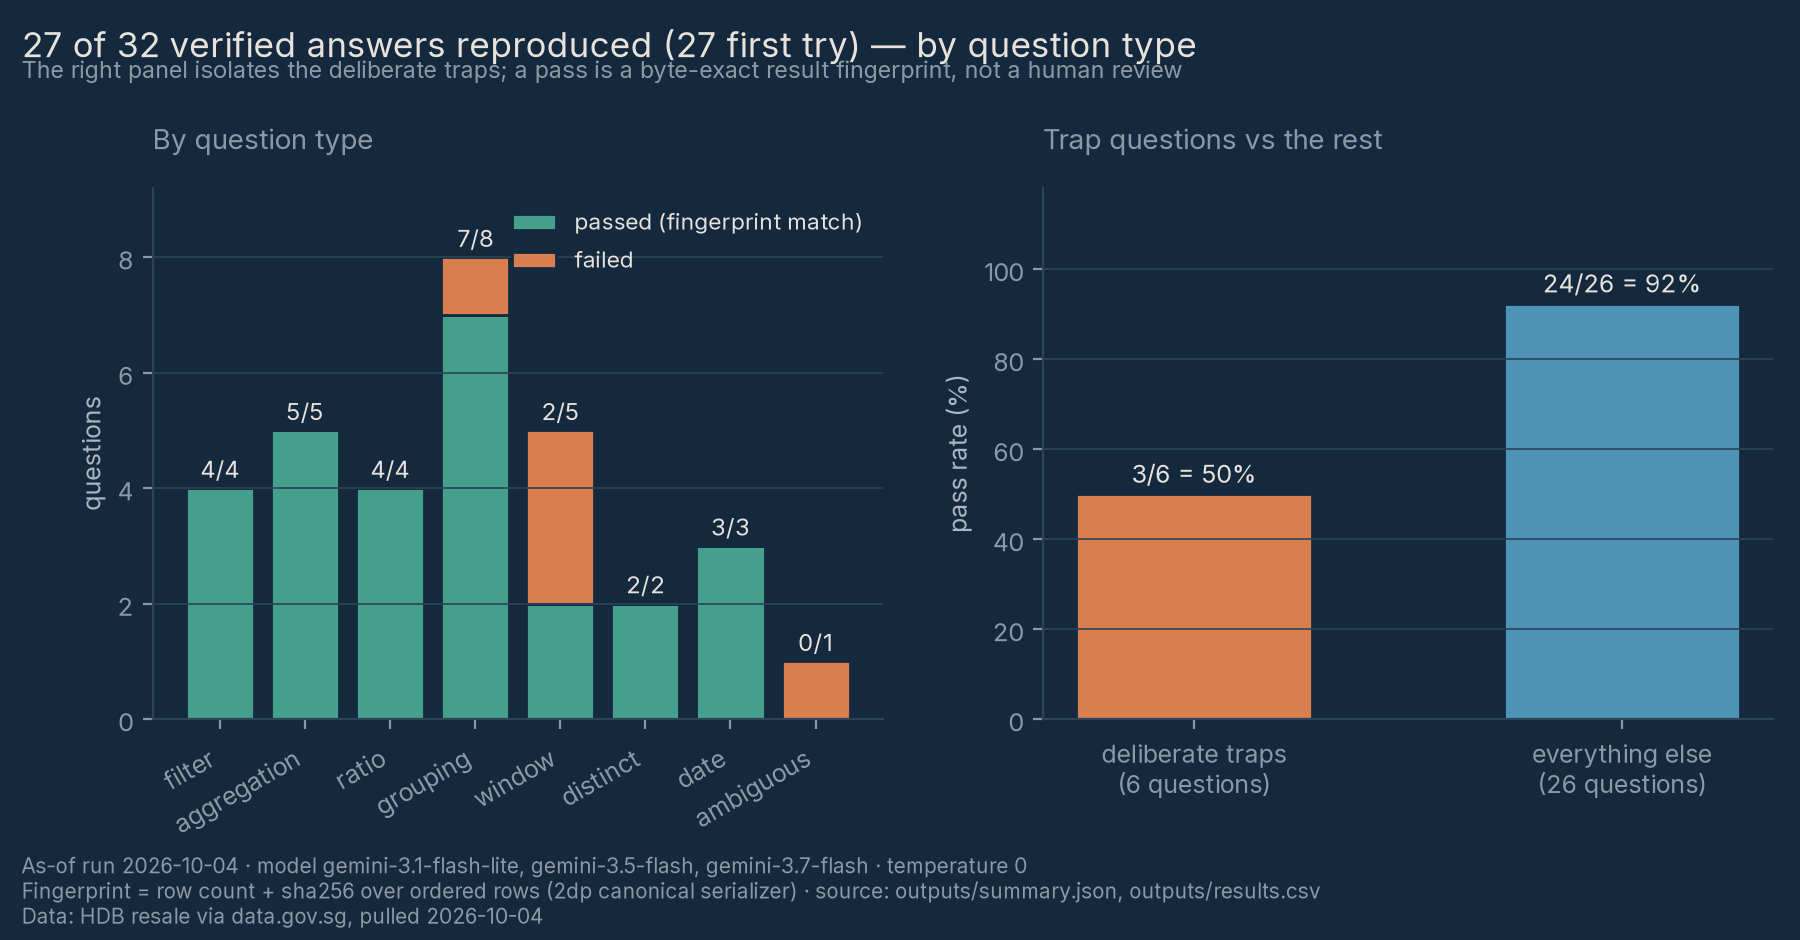
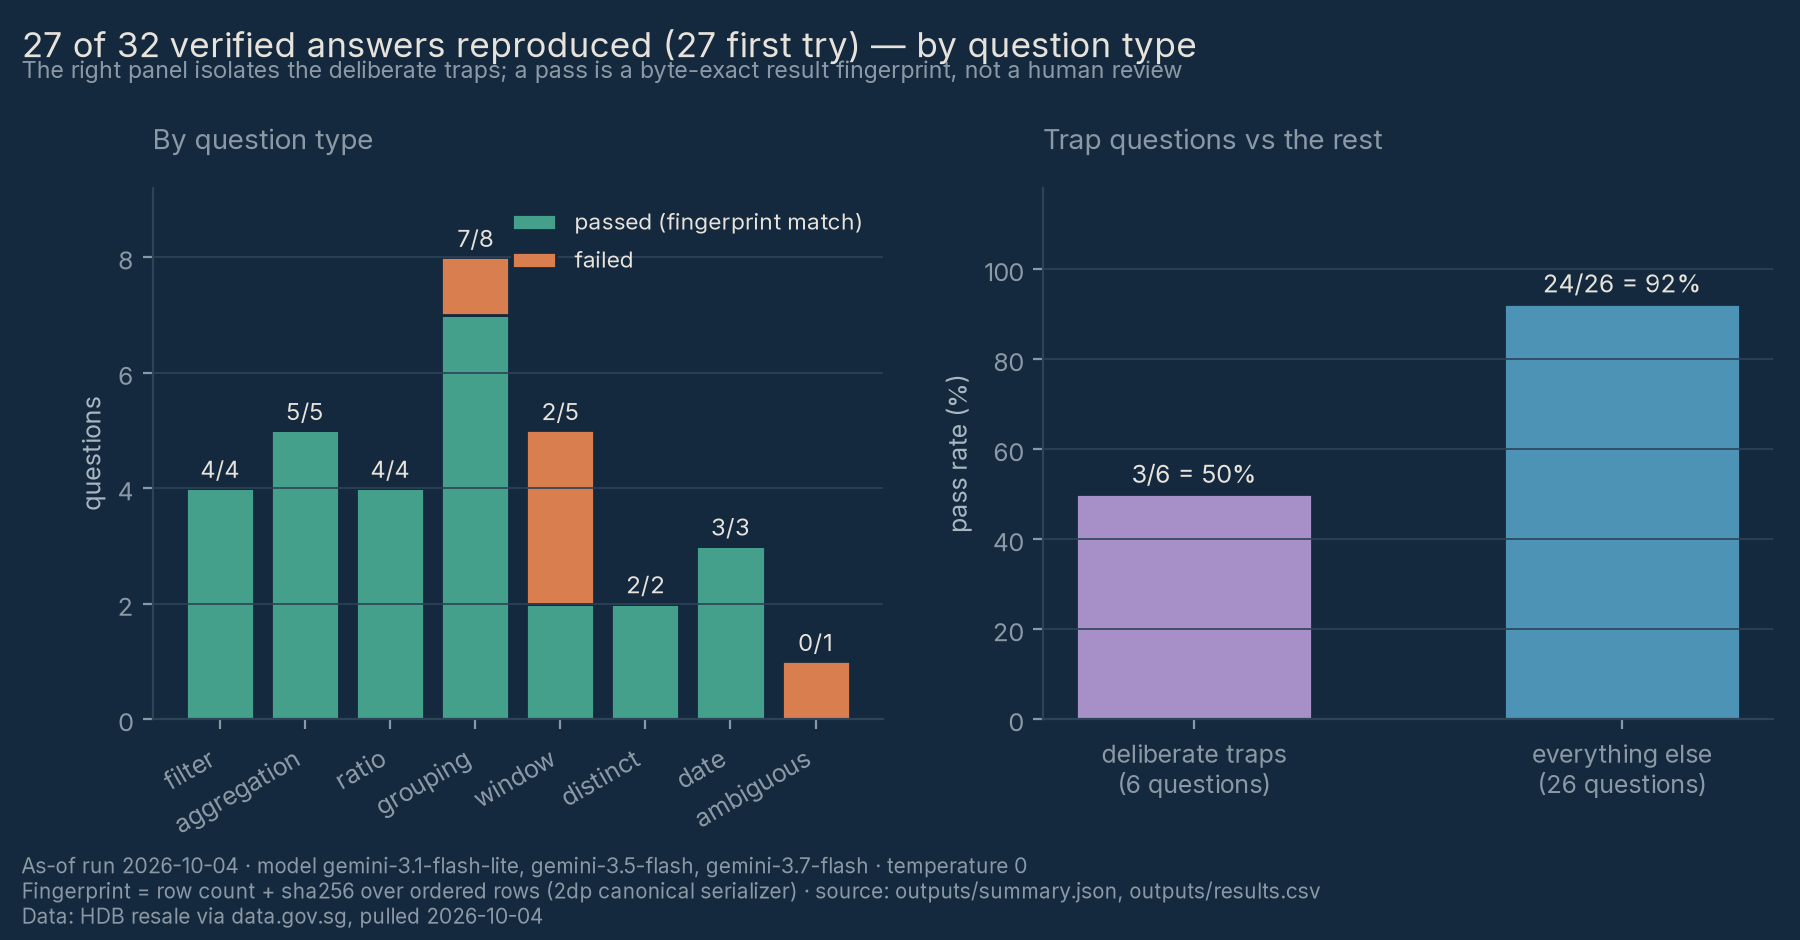
figures(f2): recolour panel B — deliberate traps in violet, everything else petrol; burnt now means failed figure-wide
Light+dark re-rendered, in-code QA (width/clearance/in-bounds/legend) all
PASS, same-env double-render determinism PASS per figure; f3 unchanged
(byte-identical hashes 062a222a/8d9990b8); docs/img mirrors written in the
same run. New f2: 608c0682 (light), 29d24fe9 (dark).

Changed region(s): [[0.5911, 0.5245, 0.7467, 0.7713]]

diff --git a/src/figures.py b/src/figures.py
@@ -244,13 +244,14 @@ def build_f2(summary):
     ax.set_title("By question type", fontsize=10, color=T["muted"])
     ax.legend(loc="best", fontsize=8)
 
-    # panel B — trap vs non-trap pass rate
+    # panel B — trap vs non-trap pass rate. Violet marks the deliberate traps
+    # (style-guide fourth series); burnt is reserved for "failed" figure-wide.
     ax = axs[1]
     labels = [f"deliberate traps\n({by_trap['true']['n']} questions)",
               f"everything else\n({by_trap['false']['n']} questions)"]
     keys = ["true", "false"]
     rates = [by_trap[k]["passed"] / by_trap[k]["n"] * 100 for k in keys]
-    bars = ax.bar(range(2), rates, color=[T["burnt"], T["petrol"]],
+    bars = ax.bar(range(2), rates, color=[T["violet"], T["petrol"]],
                   edgecolor=T["edge"], width=0.55)
     for i, k in enumerate(keys):
         ax.annotate(f"{by_trap[k]['passed']}/{by_trap[k]['n']} = {rates[i]:.0f}%",
